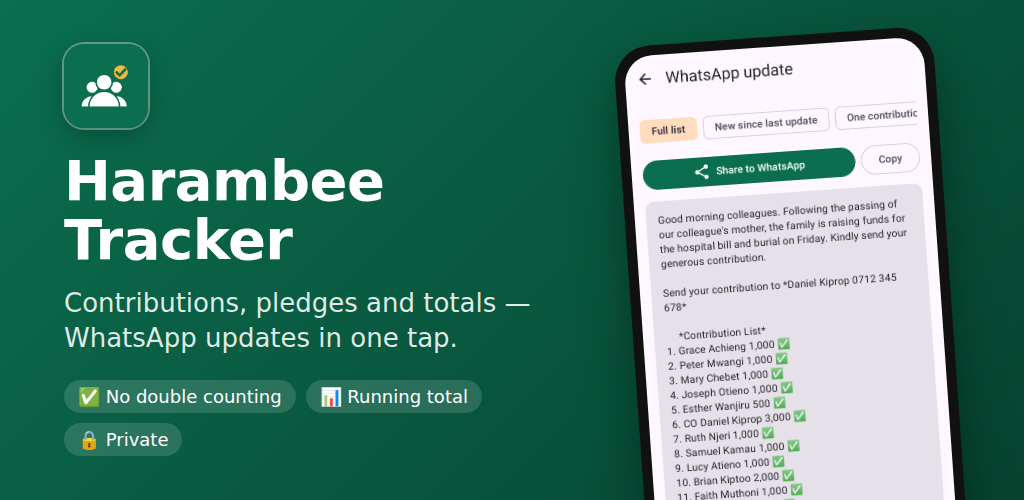
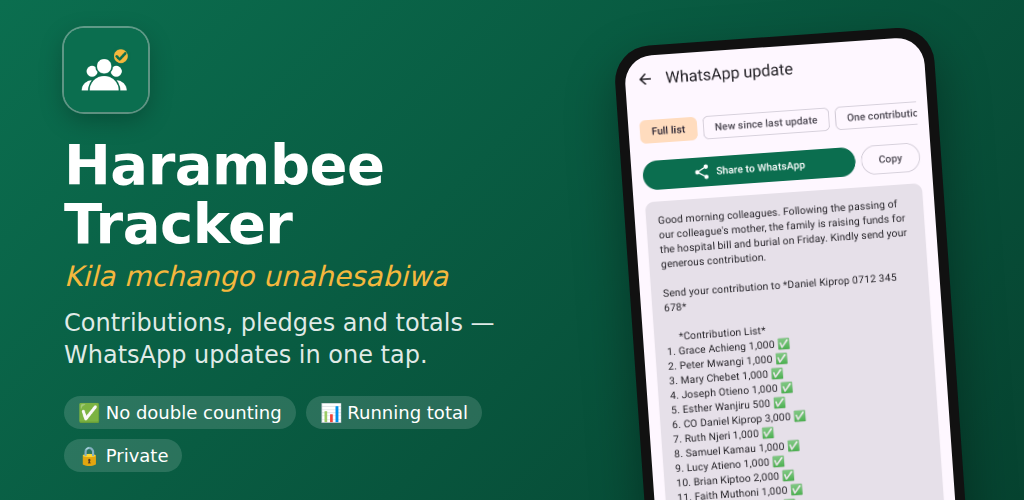
Add Kiswahili tagline: Kila mchango unahesabiwa
'Every contribution is counted'. New logo-tagline (light/dark) lockups,
tagline on the Play feature graphic, welcome screen and store listing.

Claude-Session: https://claude.ai/code/session_0177qPix6Hv5bv9CfBAzk5xA

Changed region(s): [[0.0625, 0.03, 0.5, 0.96]]

diff --git a/store/feature-graphic.html b/store/feature-graphic.html
@@ -3,14 +3,16 @@ html,body{margin:0;width:1024px;height:500px;overflow:hidden}
 body{background:linear-gradient(135deg,#0B6E4F 0%,#064330 100%);font-family:"Roboto","Noto Sans",system-ui,sans-serif;color:#fff;position:relative}
 .text{position:absolute;left:64px;top:0;bottom:0;width:520px;display:flex;flex-direction:column;justify-content:center}
 .mark{width:84px;height:84px;border-radius:20px;box-shadow:0 0 0 2px rgba(255,255,255,.35),0 8px 24px rgba(0,0,0,.25);margin-bottom:24px;background:url('graphics/icon-512.png') center/cover}
-h1{font-size:56px;line-height:1.05;margin:0 0 16px;font-weight:700;letter-spacing:-0.5px}
-p{font-size:26px;line-height:1.35;margin:0;color:rgba(255,255,255,.88)}
+h1{font-size:56px;line-height:1.05;margin:0 0 6px;font-weight:700;letter-spacing:-0.5px}
+.tag{font-size:28px;font-style:italic;color:#F5B83D;margin:0 0 14px}
+p{font-size:24px;line-height:1.35;margin:0;color:rgba(255,255,255,.88)}
 .chips{margin-top:24px;display:flex;gap:10px;flex-wrap:wrap}
 .chip{font-size:18px;padding:6px 14px;border-radius:999px;background:rgba(255,255,255,.14)}
 .phone{position:absolute;right:70px;top:36px;width:300px;height:600px;border-radius:36px;background:#111;padding:10px;box-shadow:0 20px 50px rgba(0,0,0,.35);transform:rotate(-4deg)}
 .screen{width:100%;height:100%;border-radius:28px;background:url('graphics/screenshot-3-whatsapp-update.png') top/cover}
 </style></head><body>
 <div class="text"><div class="mark"></div><h1>Harambee Tracker</h1>
+<div class="tag">Kila mchango unahesabiwa</div>
 <p>Contributions, pledges and totals — WhatsApp updates in one tap.</p>
 <div class="chips"><span class="chip">✅ No double counting</span><span class="chip">📊 Running total</span><span class="chip">🔒 Private</span></div></div>
 <div class="phone"><div class="screen"></div></div>

diff --git a/app/src/main/java/com/harambee/tracker/ui/PlatformScreens.kt b/app/src/main/java/com/harambee/tracker/ui/PlatformScreens.kt
@@ -127,7 +127,19 @@ fun OnboardingScreen(onDone: (createFirst: Boolean) -> Unit) {
             HorizontalPager(pager, Modifier.weight(1f)) { index ->
                 val page = introPages[index]
                 Column(Modifier.fillMaxSize().padding(32.dp), verticalArrangement = Arrangement.Center, horizontalAlignment = Alignment.CenterHorizontally) {
-                    if (index == 0) AppLogo(112.dp) else Text(page.emoji, fontSize = 72.sp)
+                    if (index == 0) {
+                        AppLogo(112.dp)
+                        Spacer(Modifier.height(16.dp))
+                        // Kiswahili tagline: "Every contribution is counted".
+                        Text(
+                            "Kila mchango unahesabiwa",
+                            style = MaterialTheme.typography.titleMedium,
+                            fontStyle = androidx.compose.ui.text.font.FontStyle.Italic,
+                            color = MaterialTheme.colorScheme.primary,
+                        )
+                    } else {
+                        Text(page.emoji, fontSize = 72.sp)
+                    }
                     Spacer(Modifier.height(24.dp))
                     Text(page.title, style = MaterialTheme.typography.headlineSmall, fontWeight = FontWeight.Bold, textAlign = TextAlign.Center)
                     Spacer(Modifier.height(12.dp))

diff --git a/store/brand/make_logo.py b/store/brand/make_logo.py
@@ -93,22 +93,34 @@ open("store/brand/mark-on-light.svg", "w").write(svg(svg_mark("#FFFFFF", GREEN, 
 # Single colour (stamps, embroidery, Android themed icon).
 open("store/brand/mark-mono.svg", "w").write(svg(svg_mark("#FFFFFF", INK, INK, "#FFFFFF"), None))
 
-# Horizontal logo: rounded icon + wordmark.
-def lockup(dark):
+TAGLINE = "Kila mchango unahesabiwa"  # Kiswahili: "Every contribution is counted" (and so, every contribution counts)
+
+# Horizontal logo: rounded icon + wordmark (+ optional Kiswahili tagline underneath).
+def lockup(dark, tagline=False):
     bg = INK if dark else "#FFFFFF"
     text = "#FFFFFF" if dark else INK
     sub = "#9FD9C2" if dark else GREEN
     icon = svg_mark(GREEN, WHITE, GOLD, GREEN)
-    return (f'<svg xmlns="http://www.w3.org/2000/svg" viewBox="0 0 560 140" width="1680" height="420">'
-            f'<rect width="560" height="140" fill="{bg}"/>'
-            f'<g transform="translate(16,16)"><svg viewBox="0 0 108 108" width="108" height="108">'
+    font = "Poppins, Montserrat, Roboto, Arial, sans-serif"
+    h = 176 if tagline else 140
+    icon_y = (h - 108) / 2
+    top = 10 if tagline else 0   # text block shifts down slightly when the tagline is under it
+    tag = (f'<line x1="146" y1="{112 + top}" x2="520" y2="{112 + top}" stroke="{GOLD}" stroke-width="2"/>'
+           f'<text x="146" y="{140 + top}" font-family="{font}" font-style="italic" font-weight="500" font-size="23" fill="{text}">{TAGLINE}</text>'
+           ) if tagline else ""
+    return (f'<svg xmlns="http://www.w3.org/2000/svg" viewBox="0 0 560 {h}" width="1680" height="{h * 3}">'
+            f'<rect width="560" height="{h}" fill="{bg}"/>'
+            f'<g transform="translate(16,{icon_y})"><svg viewBox="0 0 108 108" width="108" height="108">'
             f'<clipPath id="r"><rect width="108" height="108" rx="26"/></clipPath><g clip-path="url(#r)">'
             f'<rect width="108" height="108" fill="{GREEN}"/>{icon}</g></svg></g>'
-            f'<text x="146" y="74" font-family="Poppins, Montserrat, Roboto, Arial, sans-serif" font-weight="700" font-size="46" fill="{text}">Harambee</text>'
-            f'<text x="148" y="108" font-family="Poppins, Montserrat, Roboto, Arial, sans-serif" font-weight="600" font-size="22" letter-spacing="5" fill="{sub}">TRACKER</text>'
-            f'</svg>\n')
+            f'<text x="146" y="{(62 if tagline else 74) + top}" font-family="{font}" font-weight="700" font-size="46" fill="{text}">Harambee</text>'
+            f'<text x="148" y="{(96 if tagline else 108) + top}" font-family="{font}" font-weight="600" font-size="22" letter-spacing="5" fill="{sub}">TRACKER</text>'
+            + tag + '</svg>\n')
+
 open("store/brand/logo-horizontal.svg", "w").write(lockup(False))
 open("store/brand/logo-horizontal-dark.svg", "w").write(lockup(True))
+open("store/brand/logo-tagline.svg", "w").write(lockup(False, tagline=True))
+open("store/brand/logo-tagline-dark.svg", "w").write(lockup(True, tagline=True))
 
 # ---- Android vector drawables ----
 def vd(paths, w=108):

diff --git a/store/release-steps.md b/store/release-steps.md
@@ -68,6 +68,7 @@ To rebuild the feature graphic, open `store/feature-graphic.html` in a browser a
 `store/brand/` holds the logo: three people standing together with a gold "confirmed" badge (Harambee = *pulling together*; ✓ = every contribution accounted for).
 - `icon.svg` / `icon-1024.png`: app icon, square (stores add their own rounding)
 - `logo-horizontal(-dark).svg/.png`: icon + "Harambee TRACKER" wordmark, for letterheads, posters and WhatsApp group pictures
+- `logo-tagline(-dark).svg/.png`: the same with the Kiswahili tagline *Kila mchango unahesabiwa* ("Every contribution is counted")
 - `mark-on-light`, `mark-mono`: the symbol alone, in colour or one colour, on transparent backgrounds
 - Colours: green `#0B6E4F`, gold `#F5B83D`, ink `#10241C`
 

diff --git a/store/listing.md b/store/listing.md
@@ -10,6 +10,8 @@ Track Harambee contributions, pledges and totals, and share WhatsApp updates.
 
 **Full description** (max 4000):
 
+Kila mchango unahesabiwa — every contribution is counted.
+
 Collecting contributions for a burial, medical bill, wedding, church project or welfare group on your own M-Pesa number? Harambee Tracker keeps an accurate list and running total for you, and writes the WhatsApp update in seconds.
 
 ✅ ADD CONTRIBUTIONS FAST
